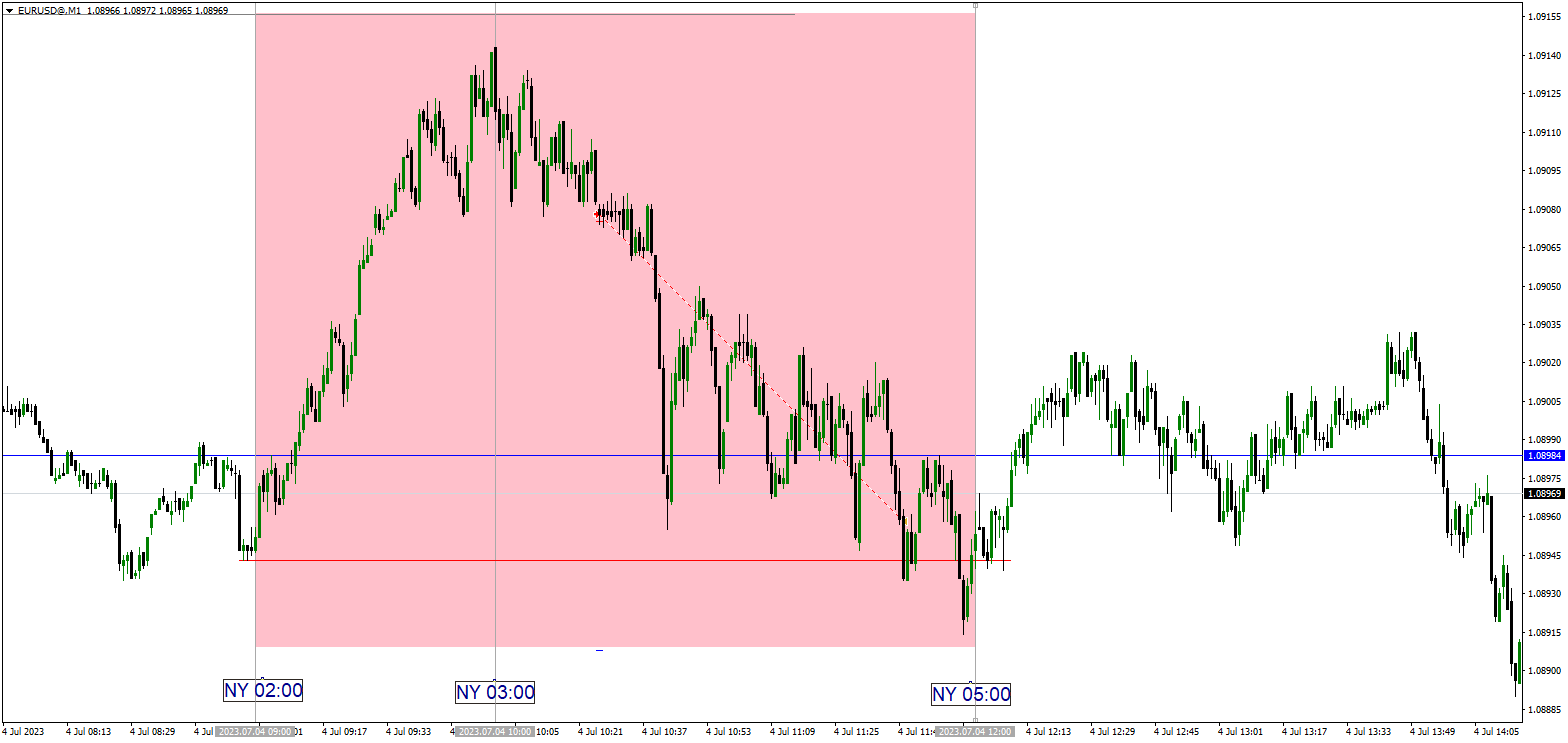
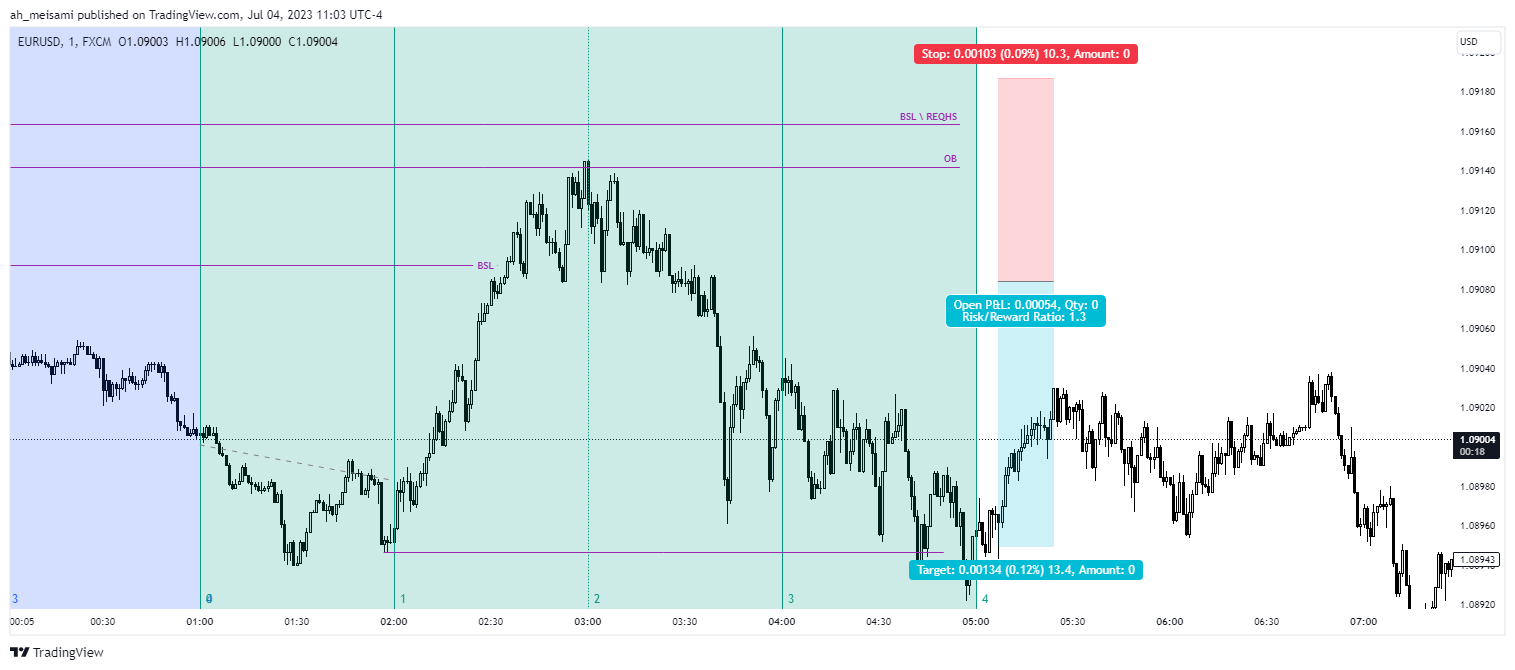
2023.07.04 - live ( +1R )

diff --git a/2023.07.04 - live ( +1R )/README.md b/2023.07.04 - live ( +1R )/README.md
@@ -1,0 +1,7 @@
+1. Bond Market is Bearish.  
+2. Dollar Market is also bearish, while always, Bond Market and Dollar Market moves in the opposite direction.  
+3. SSL cleared in Dollar Market.  
+4. I was waiting for the market to enter the ICT KillZone [NY 03:00].  
+5. When SWH cleared in EURUSD in NY 02:40, I was sure it is not true to enter the market before ICT KillZone.    
+6. Near the ICT KillZone [03:00], despite seeing REQH[5m] I see -OB[5m], so I take a short position with SL above REQH[5m].   
+7. Near the ICT KillZone [05:00] I closed the trade with profit, because today is not a high probability conditions.
